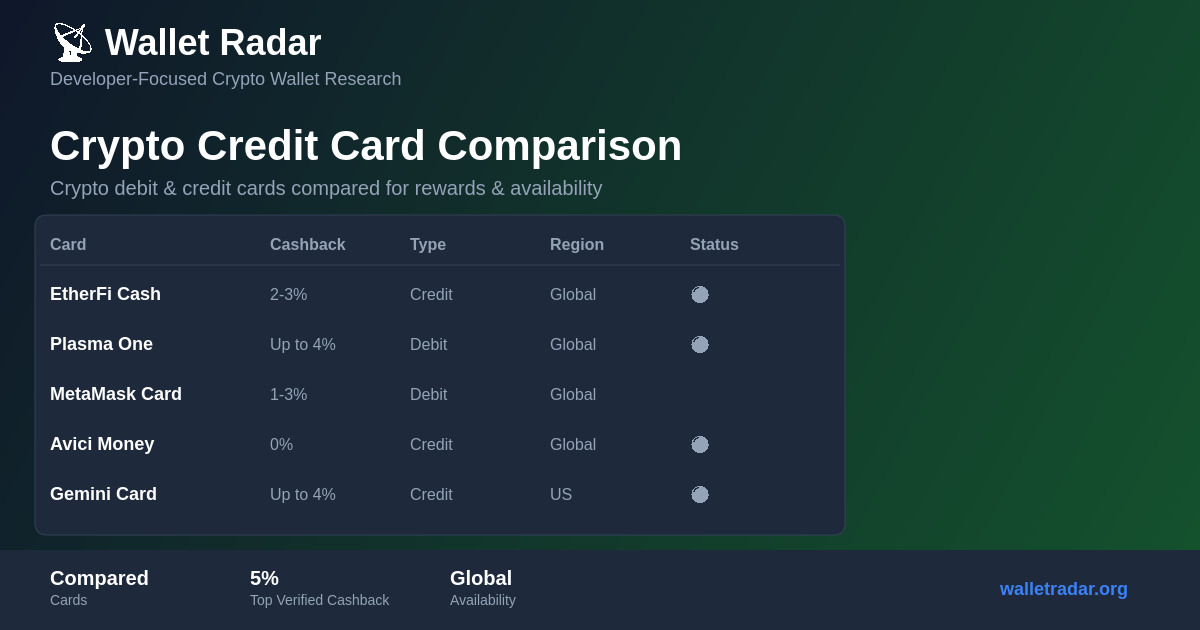
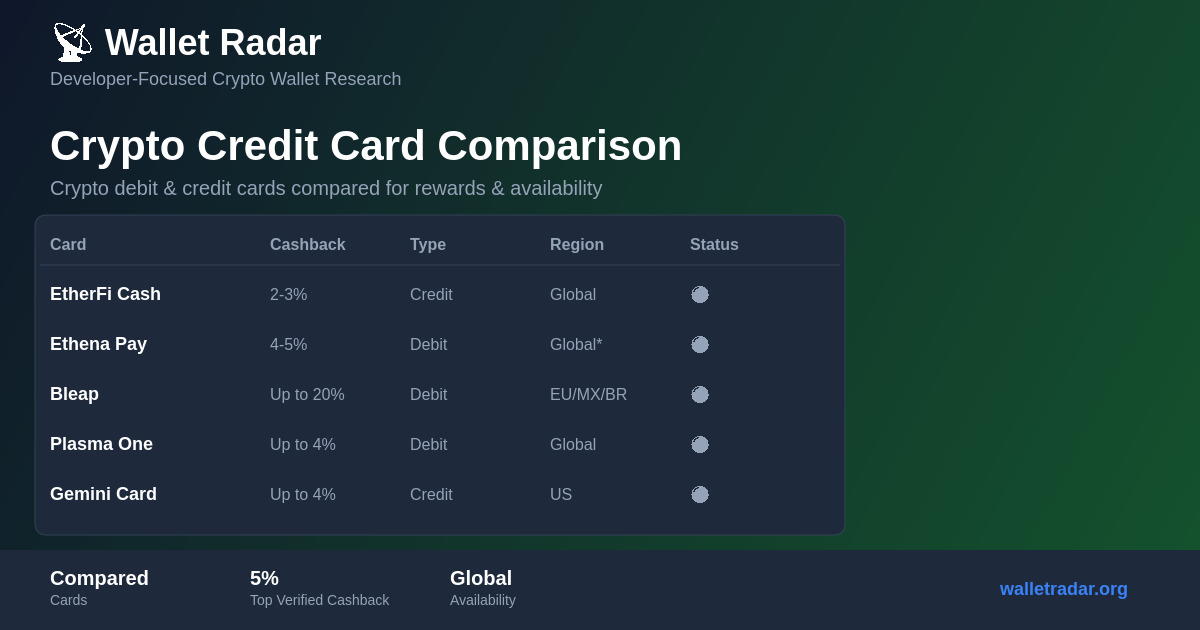
data(cards): re-check issuer pages 2026-10-15, mark wind-downs, add Bleap, Tangem Pay, Phantom Cash
Re-fetched issuer pages. Gnosis Pay consumer card winding down, Ready discontinued,
Solflare still paused (issuer Kulipa wound down), Cypher marked discontinued.
Updated Kraken (Krak US launch), OKX FX, Wirex One, Nummus fees, region asterisks.
Scores regenerated with sync_table_scores.js; OG card image regenerated.

diff --git a/frontend/scripts/generate-og-images.js b/frontend/scripts/generate-og-images.js
@@ -62,11 +62,11 @@ const WALLET_DATA = {
   ],
   cards: [
     // Data from CRYPTO_CARDS.md - Top 5 by score
-    // Last verified: October 2026
+    // Last verified: October 15, 2026
     { name: 'EtherFi Cash', cashback: '2-3%', type: 'Credit', region: 'Global', status: '🟢' },
+    { name: 'Ethena Pay', cashback: '4-5%', type: 'Debit', region: 'Global*', status: '🟢' },
+    { name: 'Bleap', cashback: 'Up to 20%', type: 'Debit', region: 'EU/MX/BR', status: '🟢' },
     { name: 'Plasma One', cashback: 'Up to 4%', type: 'Debit', region: 'Global', status: '🟢' },
-    { name: 'MetaMask Card', cashback: '1-3%', type: 'Debit', region: 'Global', status: '🟡' },
-    { name: 'Avici Money', cashback: '0%', type: 'Credit', region: 'Global', status: '🟢' },
     { name: 'Gemini Card', cashback: 'Up to 4%', type: 'Credit', region: 'US', status: '🟢' },
   ],
   ramps: [
@@ -671,7 +671,7 @@ function generateCryptoCardsDetailsImage() {
 
   const regions = [
     '• US: Gemini Card (up to 4%), Coinbase Card, Fold Card',
-    '• EU/UK: Gnosis Pay, Plasma One (up to 4%)',
+    '• EU/UK: Kraken Card (up to 2%), Plasma One (up to 4%)',
     '• Global: EtherFi Cash (2-3%), Plasma One (up to 4%)',
   ];
 

diff --git a/CRYPTO_CARDS_DETAILS.md b/CRYPTO_CARDS_DETAILS.md
@@ -5,19 +5,19 @@
 > **Source of truth note:** Current `Score` values are generated from the visible columns in [CRYPTO_CARDS.md](./CRYPTO_CARDS.md) via `scripts/sync_table_scores.js` (`2026-04-visible-columns-v3`). If a long-form section below mentions older rankings or manual bonuses, trust the main comparison table.
 
 <!-- GENERATED_CARDS_SNAPSHOT_START -->
-> **Current generated snapshot:** EtherFi Cash (92, Self-custody DeFi, 🟢), Ethena Pay (84, Non-US AVAX-cashback spend card (47 listed jurisdictions; EU coming soon), 🟢), Plasma One (81, USDT spend card, 🟢), and MetaMask Card (77, Self-custodial spending (US/UK signups paused), 🟢). Regenerated from [CRYPTO_CARDS.md](./CRYPTO_CARDS.md) by `scripts/sync_table_scores.js` using methodology `2026-04-visible-columns-v3`.
+> **Current generated snapshot:** EtherFi Cash (92, Self-custody DeFi, 🟢), Ethena Pay (84, Non-US AVAX-cashback spend card (47 listed jurisdictions; EU coming soon), 🟢), Bleap (83, MPC self-custodial wallet, Mastercard (custody labelled CeFi: issuing bank and card funding path not stated), 🟢), and Plasma One (81, USDT spend card, 🟢). Regenerated from [CRYPTO_CARDS.md](./CRYPTO_CARDS.md) by `scripts/sync_table_scores.js` using methodology `2026-04-visible-columns-v3`.
 
 ### Current Top Rows (generated)
 | Rank | Card | Score | Best For | Rec |
 | ---- | ---- | ----- | -------- | --- |
 | 1 | **EtherFi Cash** | 92 | Self-custody DeFi | 🟢 |
 | 2 | **Ethena Pay** | 84 | Non-US AVAX-cashback spend card (47 listed jurisdictions; EU coming soon) | 🟢 |
-| 3 | **Plasma One** | 81 | USDT spend card | 🟢 |
-| 4 | **MetaMask Card** | 77 | Self-custodial spending (US/UK signups paused) | 🟢 |
-| 5 | **Avici Money** | 76 | Collateral-backed | 🟢 |
+| 3 | **Bleap** | 83 | MPC self-custodial wallet, Mastercard (custody labelled CeFi: issuing bank and card funding path not stated) | 🟢 |
+| 4 | **Plasma One** | 81 | USDT spend card | 🟢 |
+| 5 | **Gemini Card** | 79 | Credit building | 🟢 |
 <!-- GENERATED_CARDS_SNAPSHOT_END -->
 
-**Last Updated:** October 10, 2026 (Oct 2026 issuer-source verification: see [Verification Log](#verification-log-october-2026). Custody: KAST, 1inch, Jupiter, CryptoSpend/Wayex, CoinJar, Spendly, Bitget Wallet Card, and Nummus Wallet Card are CeFi/card-platform; OKX Card is Exch because OKX Pay holds the balance.)
+**Last Updated:** October 15, 2026 (re-check of issuer pages on 2026-10-15, see [Recheck log](#recheck-2026-10-15); earlier Oct 2026 issuer-source verification: see [Verification Log](#verification-log-october-2026). Custody: KAST, 1inch, Jupiter, CryptoSpend/Wayex, CoinJar, Spendly, Bitget Wallet Card, and Nummus Wallet Card are CeFi/card-platform; OKX Card is Exch because OKX Pay holds the balance.)
 
 ---
 
@@ -379,7 +379,7 @@ The Binance Card is a debit card linked to your Binance account, offering BNB re
 **Website:** [wirexapp.com/card](https://wirexapp.com/card)
 
 **Overview:**
-The Wirex Card is a multi-crypto debit card with Cryptoback™ rewards program, supporting multiple cryptocurrencies.
+The Wirex Card is a multi-crypto debit card. As of 2026-10-15 the issuer's page (wirex.one) advertises Wirex One: "up to 8% cashback in USD on every purchase", "Zero-fee FX and ATM worldwide" and availability in "130+ countries". Secondary reports (SpendNode, June 2026) say the older WXT rewards and paid subscription tiers were replaced by a WPAY-based membership; wirex.one did not state this, so the annual/monthly fee is shown as TBD.
 
 **Business Support:** ✅ Yes (Wirex Business accounts available)
 
@@ -390,13 +390,13 @@ The Wirex Card is a multi-crypto debit card with Cryptoback™ rewards program, 
 - Debit card
 
 **Rewards Structure:**
-- Up to 8% Cryptoback™ rewards
-- Rewards paid in WXT token
+- Up to 8% cashback, paid in USD (wirex.one, 2026-10-15). Older "Cryptoback" in WXT: superseded per secondary reports.
 
 **Fees:**
-- Annual Fee: $0
-- Foreign Transaction Fee: 0%
-- Conversion fees may apply
+- Annual / monthly fee: TBD (older table said €0-€29.99/mo; not stated on wirex.one)
+- Foreign Transaction Fee: 0% ("Zero-fee FX", wirex.one)
+- ATM: "fee-free ATM withdrawals worldwide" (wirex.one; limits not stated)
+- Cardano Card (issued by Wirex): ends 2026-10-31 as Wirex drops custody, per Altcoin Buzz 2026-10-13 quoting the card's official X account (secondary; X post not fetched)
 
 **Requirements:**
 - Wirex account
@@ -960,7 +960,7 @@ Tria Card is a self-custodial Visa credit card that enables spending from 1,000+
 
 **Website:** [solflare.com/card](https://solflare.com/card)
 
-**Status:** ✅ Active (UK/EEA launch 2024, partnership with Mastercard)
+**Status:** ⚠ Paused. solflare.com/crypto-card (2026-10-15): "Solflare Cards are paused today while we move to a new issuing partner", cards "expected to return in August" (not met). SpendNode (secondary, 2026-07-29): paused 2026-07-28 after issuer Kulipa wound down. Funds stay in the self-custodial wallet.
 
 **Overview:**
 Solflare Card is the first self-custody crypto debit card on Solana, enabling instant USDC spending worldwide without top-ups, custodians, or hidden fees. Developed in partnership with Mastercard and Bridge.
@@ -1473,6 +1473,64 @@ Kontigo was a USDC-focused neobank offering stablecoin cards with Bitcoin cashba
 
 ---
 
+### Bleap
+
+**Website:** [bleap.finance](https://bleap.finance) (fetched 2026-10-15)
+
+**Status:** ✅ Live in Europe, Mexico and Brazil ("more countries planned").
+
+**Overview:**
+Mastercard debit card on an MPC wallet. Issuer entity: Bleap SIA (Latvia), MiCA CASP licence No. 27-55/2026/14 from Latvijas Banka; parent Bleap Ltd (UK). The page does not name the card-issuing bank.
+
+**Rewards (USDC):** 20% on streaming, gaming and AI subscriptions; 3% on rides and food delivery; 2% at restaurants and supermarkets; 1% on everything else.
+
+**Fees:** card issuance free; no monthly or annual fee; no markup on crypto-to-fiat conversion; no FX fee on non-EUR payments; ATM free up to EUR 400 per month.
+
+**Custody Model:** Page says wallets are self-custodial MPC ("No single party, including Bleap, ever holds your complete key"). The table labels the spend path 📋 CeFi because the page does not say funds stay user-controlled until authorization, and the issuing bank is not named.
+
+**Unverified:** spending limits, business support, card-issuing bank.
+
+---
+
+### Tangem Pay
+
+**Website:** [tangem.com/en/tangem-pay](https://tangem.com/en/tangem-pay/) (fetched 2026-10-15)
+
+**Status:** ✅ Basic and Plus available; Prestige on waitlist; welcome bonus and boosted rates "coming soon".
+
+**Overview:** Visa card issued by Rain (Visa Principal Member). Basic is Visa Platinum, Plus is Signature, Prestige is Infinite.
+
+**Rewards:** Basic 1%, Plus 2%, Prestige 4%; monthly caps $100 / $300 / $1,000. Basic is free; Plus is $29.99/month (waived at $4,500 monthly spend or $65,000 in Yield Mode); Prestige is $999/year (coming soon). ATM fee 4% / 2% / 1%. Daily spend limits $10,000 / $50,000 / $100,000. Bank top-up Basic: $1 ACH or $10 FedWire.
+
+**Custody Model:** Main assets stay in the non-custodial Tangem Wallet, but only the balance loaded onto the card can be spent, so the table labels the spend path 📋 CeFi.
+
+**Unverified:** FX fee, countries where cards can be opened, KYC wording.
+
+---
+
+### Phantom Cash Card
+
+**Website:** [phantom.com/cash](https://phantom.com/cash) (fetched 2026-10-15)
+
+**Status:** ⚠ Early rollout. The page says the card is "launching first in the U.S., except in New York". SpendNode (secondary) dates the US launch 2026-03-31.
+
+**Overview:** Visa card issued by Lead Bank; Bridge Ventures LLC is program manager; Phantom is platform provider. Spends the CASH stablecoin balance. Identity verification is required for the card (handled by Stripe).
+
+**Rewards / fees:** no cashback stated. "Fees may apply"; amounts, FX and annual fee not listed (TBD).
+
+**Custody Model:** 📋 CeFi (prepaid card balance held with issuer and program manager).
+
+---
+
+### Kraken Card (Krak)
+
+**Website:** [kraken.com/features/crypto-card](https://www.kraken.com/features/crypto-card); US launch post [blog.kraken.com/product/krak/us-launch](https://blog.kraken.com/product/krak/us-launch) (fetched 2026-10-15)
+
+- **UK/EEA:** virtual Mastercard debit card issued by Monavate; up to 2% back in BTC or EUR (0.5% from EUR 200, 1% from EUR 1,000, 1.5% from EUR 10,000, 2% from EUR 50,000 average balance); "no transaction, FX or ATM withdrawal fees" (a variable spread applies when spending across assets).
+- **US:** Visa debit card issued by Lead Bank (Stripe technology), launched 2026-08-18; up to 2% in USD or BTC; "No hidden fees, monthly fees, or annual fees"; FX fee not stated. Support page (support.krak.app/articles/us-krak-card-cashback-overview) lists 0.5% / 1% / 1.5% / 2% at USD 200 / 1,000 / 10,000 / 50,000, but the US cashback terms (krak.app/legal/us-card-cashback-terms) list 1% / 1.5% / 1.75% / 2% at USD 1,000 / 10,000 / 75,000 / 150,000 and say tiers may change. The two Kraken pages conflict; only "up to 2%" is consistent.
+
+---
+
 ### Reap
 
 **Website:** [reap.global](https://reap.global)
@@ -1677,9 +1735,10 @@ Headline maximums; many require staking or tiers, and several are unverified (se
 - Binance Card (**January 2026 Update:** Now Brazil-only, not global)
 
 ### Global (Multi-Region)
-- **Gnosis Pay** (**January 2026 Update:** Now global - EEA, UK, Brazil, Argentina, Mexico, Colombia, Philippines, Thailand, Japan, Singapore)
+- **Gnosis Pay** (January 2026: EEA, UK, Brazil, Argentina, Mexico, Colombia, Philippines, Thailand, Japan, Singapore; **October 2026: consumer card being wound down**, see Recheck log)
 - Crypto.com Visa Card
 - Wirex Card
+- Bleap (EU, Mexico, Brazil only; listed for completeness)
 - EtherFi Cash (100M+ merchants worldwide)
 - Hi Card
 - KuCard (excludes US)
@@ -1880,6 +1939,32 @@ Retrieved 2026-10-10 from issuer pages unless marked *(secondary)*. Page text wa
 | Cypher Card | New row (inactive) | n/a | ❌, ~~strikethrough~~ | Primary: [cypherhq.io wind-down page](https://www.cypherhq.io/wind-down-support/what-is-happening-to-cypher) ("Cypher has been acquired by Nium"; cards cancelled 2026-08-08 00:00 UTC; app/dApp/business platform offline 2026-09-06) and [Nium announcement, 2026-07-08](https://www.nium.com/newsroom/nium-acquires-cypher). Fees and cashback TBD |
 | Coinbase Card (One Card, Amex) | No change | n/a | n/a | coinbase.com/creditcard, help.coinbase.com and the launch blog returned 403; only search snippets of coinbase.com pages (US only, Coinbase One members, issuer First Electronic Bank, Amex network) seen. Not a primary-page confirmation, so no row added or edited |
 
+### Recheck (2026-10-15)
+
+Second pass on 2026-10-15 using WebFetch/WebSearch and `scripts/verify-crypto-cards.js` (Playwright). Many issuer pages state no numbers or blocked the fetch; those fields are listed under **Unverified (2026-10-15)**.
+
+| Card | Field | Old | New | Source |
+|------|-------|-----|-----|--------|
+| Gnosis Pay | Status / Best For | ✅, DeFi-native | ⚠, consumer card winding down | Issuer blog [gnosispay.com/blog/gnosis-pay-the-next-era](https://gnosispay.com/blog/gnosis-pay-the-next-era): "Over the coming months the Gnosis Pay card will be wound up in favour of partner cards" and the web app will close. The date 2026-12-20 23:59 UTC (card and web app stop; GNO cashback ended 2026-09-30) is from [Crypto Briefing](https://cryptobriefing.com/gnosis-pay-shutdown-consumer-cards-b2b/) and The Defiant (secondary; help.gnosispay.com FAQ returned 404 to fetch) |
+| Kraken | Link / Best For | kraken.com/kraken-card (404), "Cloudflare-protected" | kraken.com/features/crypto-card, network and issuer by region | See Kraken Card (Krak) section; FX "no FX fees" confirmed for UK/EEA only |
+| OKX Card | FX | TBD | 0% | [my.okx.com/pay](https://my.okx.com/pay): "We charge no transaction fees or FX fees. Worldwide." (0.1% market spread when converting to fiat) |
+| Wirex Card | Annual / Rewards | €0-€29.99/mo, WXT | TBD, USD cash | [wirex.one](https://wirex.one): "up to 8% cashback in USD", zero-fee FX and ATM; old subscription not stated |
+| Nummus Wallet Card | Annual | TBD | $0-$14.99/mo ($300-$750 one-time setup tiers) | [nummuswallet.com](https://nummuswallet.com/): Free (physical card $30), Plus $14.99/mo or $149/yr, Pro $300 one-time, Premium $750 one-time |
+| Tuyo | Region | Global* | Global | [tuyo.com/card](https://tuyo.com/card) links a US cardholder agreement; the 10-Oct text also listed the US among 41 countries |
+| Fuse Wallet Card | Region | Global* | Global | [fusewallet.com](https://fusewallet.com): issued by Lead Bank under Visa U.S.A.; only NY and AK excluded in the US |
+| Jupiter Card | Region | Global* | Global | [docs.jup.ag](https://docs.jup.ag/user-docs/global/spend/jupiter-card): lists many countries and 31 US states |
+| Gemini Card | Rewards | BTC, ETH | Multi (BTC, 50+ cryptos) | [gemini.com/credit-card](https://www.gemini.com/credit-card): "bitcoin or 50+ cryptos"; 4% capped at $300/mo; Mastercard World Elite, WebBank |
+| Bitget Wallet Card | Rewards | Campaign | Multi (BTC, gold, stocks, USDC) | [web3.bitget.com/en/card](https://web3.bitget.com/en/card): 2% base assetback, 3% upgrade; user picks one reward asset |
+| Solflare Card | Best For | Cards paused (new issuer) | paused since 2026-07-28, Kulipa wound down; return "expected August" not met | [solflare.com/crypto-card](https://solflare.com/crypto-card) (still paused 2026-10-15); date and issuer from SpendNode (secondary) |
+| Ready Card | Best For | reported shutdown, unconfirmed | Discontinued (late July 2026, issuer Kulipa wound down) | [The Defiant](https://thedefiant.io/news/cefi/ready-shuts-card-program-after-issuer-winds-down) headline and search snippet (article body not retrievable, secondary); ready.co/card shows no notice |
+| Cypher Card | Best For | deactivated by 2026-09-06 | cards cancelled 2026-08-08, service ended 2026-09-06 | [cypherhq.io wind-down page](https://www.cypherhq.io/wind-down-support/what-is-happening-to-cypher) |
+| Swissborg Card | Best For | Card page 404 | card advertised on swissborg.com | swissborg.com: "Pay worldwide wherever Mastercard is accepted", BORG cashback; fee schedule not on page |
+| Bleap, Tangem Pay, Phantom Cash Card | New rows | n/a | see sections above | bleap.finance, tangem.com/en/tangem-pay, phantom.com/cash |
+
+**Checked and unchanged (primary page matched the table):** EtherFi network Visa (gitbook), Ethena Pay (4-5% AVAX, ~1% FX, $0 fees, ATM $1 + 0.65%), Plasma One (2/3/4% tiers, Visa/Rain), MetaMask (1% virtual, 3% on first $10,000 Metal, $199/yr, US/UK signups closed), Kast (1.5/2/3%, $0/$1,000/$10,000 per year, Visa), Nexo (0.5-2%, FX 0.2-2.5%, issuer DiPocket), Bitpanda (1% crypto spend, FX 0%), Shakepay (up to 1.5%, no annual fee, Visa), CoinJar (1% points, 2.99% FX, Mastercard/EML), Meow (1.5% base rate, no annual fee), Slash (Free 1.5% / Pro 2%, 1% FX min $0.40, Visa/Column), ThorWallet (0.5% Premium, $124 one-off, 1.5% FX, Mastercard), ToonPay (Starter 1%, 2% FX, $12 KYC, $80 card), Plutus (FX 2.5%, ATM 2.5%, card EUR/GBP 9.99), KuCard terms (EEA, Visa, Wallester), Binance Brazil (Pomelo, Mastercard, no physical issuance fee), Reap (Visa principal, live HK and Mexico), RedotPay (issuance $10 virtual / $100 physical), Fold (Visa, Sutton Bank), Gnosis Pay network (Visa Europe, Monavate).
+
+**Unverified (2026-10-15):** EtherFi cashback/fees (ether.fi/cash HTTP 429; Playwright got a Vercel security checkpoint; gitbook page gives no rates). Coinbase (HTTP 403; the Coinbase One Card, Amex, is described only by search snippets), Revolut (403), Uphold (403), Bybit (fetch timeout; a January 2026 press release says Bybit EU added BTC cashback at 2-10%, which conflicts with the "Non-EEA" row, secondary), 1inch cashback/regions (page states neither), Wayex/CryptoSpend 1% cashback and BTC/ETH rewards (page states neither), Reap 0% cashback and 2% FX (page lists no amounts), Hi Card (hi.com mentions no card), BitPay (page has no status; reports conflict), Amp Pay (TLS certificate expired), Payy and Tria card terms, Kontigo, Spendly, Bitget activation fee and FX range, Plutus annual fee and region, Kraken US FX fee and US cashback tiers (two Kraken pages disagree), Binance CIS relaunch (Mastercard/Immersve, February 2026, secondary only), Crypto.com US Visa Signature credit card (1.5-6% CRO per Crypto.com event page via search snippet, not fetched), Fold Bitcoin Credit Card ("up to 5% back in bitcoin" on foldapp.com, no terms), Moonwell Card (shut 2026-08 with Cypher, secondary).
+
 ### Custody
 
 | Card | Class | Keys / funds | Issuer / program manager |
@@ -1897,7 +1982,7 @@ Retrieved 2026-10-10 from issuer pages unless marked *(secondary)*. Page text wa
 | Cypher Card | TBD (not verified from a primary page) | Discontinued; own notice: Service End Date 2026-09-06, card deactivated then | Nium (acquirer) |
 | 1inch, Jupiter, Wayex, Nexo, Plutus, Shakepay, Reap, CoinJar | CeFi | Prepaid/partner-held balances | Monavate; Rain+DCS; Lead Bank/Bridge; Lead Bank; DiPocket; Modulr; Peoples Trust; Reap (Visa principal); EML |
 
-**Not added:** Bleap (custody is an issuer claim only; funding path, issuer and terms not retrieved). **Added 2026-10-10 from primary pages:** Bitpanda Card and Cypher Card (inactive). **Fetch results:** tangem.com/en/pay 404, tangem.com/en/tangem-pay/ fetched; exa.fi redirects to a domain-sale page; ledger.com/ledger-cl-card 404 (shop.ledger.com/pages/cl-card-crypto-card fetched); safepal.com/en/crypto-card 404; Coinbase pages 403; holyheld.com/card 404.
+**Not added on 2026-10-10:** Bleap (added 2026-10-15 from bleap.finance with custody labelled CeFi). **Added 2026-10-10 from primary pages:** Bitpanda Card and Cypher Card (inactive). **Fetch results:** tangem.com/en/pay 404, tangem.com/en/tangem-pay/ fetched; exa.fi redirects to a domain-sale page; ledger.com/ledger-cl-card 404 (shop.ledger.com/pages/cl-card-crypto-card fetched); safepal.com/en/crypto-card 404; Coinbase pages 403; holyheld.com/card 404.
 
 **Cypher:** primary pages confirm the acquisition by Nium and the shutdown. Cypher's own [notice of termination](https://www.cypherhq.io/notice-of-termination) (Notice Date 2026-07-08) states a Service End Date of 2026-09-06 on which "the Cypher Card will be deactivated"; the [wind-down page](https://www.cypherhq.io/wind-down-support/what-is-happening-to-cypher) gives 2026-08-08 for card cancellation. Both are Cypher primary sources and differ; the row is inactive either way. Custody and region are not verified from a primary page and are TBD.
 
@@ -1908,7 +1993,7 @@ Cashback rates for EtherFi (2-3%) and its ATM/annual fee; Plasma membership pric
 COCA Visa (coca.xyz; "non-custodial", up to 8%, issuer Wirex *secondary*), Wirex One / SecondFi self-custodial relaunch, Mercuryo x Mastercard, Sana onchain (Rain), Western Union Stablecard (custody unclear). Ethena Pay was added and updated to live beta.
 
 Not added after primary-page check (2026-10-10), reason:
-- Tangem Pay ([tangem.com/en/tangem-pay/](https://tangem.com/en/tangem-pay/)): live (Basic available), Rain issuer, 1/2/4% cashback, Plus $29.99/mo; custody described as main assets in non-custodial wallet with a separate loaded card balance, and countries that can open cards are not listed; FX fee in a tariffs PDF not read. Region unconfirmed.
+- Tangem Pay (added as a row on 2026-10-15 with region marked unconfirmed; [tangem.com/en/tangem-pay/](https://tangem.com/en/tangem-pay/)): live (Basic available), Rain issuer, 1/2/4% cashback, Plus $29.99/mo; custody described as main assets in non-custodial wallet with a separate loaded card balance, and countries that can open cards are not listed; FX fee in a tariffs PDF not read. Region unconfirmed.
 - Ledger CL Card ([shop.ledger.com](https://shop.ledger.com/pages/cl-card-crypto-card), [withcl.com/legal](https://www.withcl.com/legal)): live in EEA, UK, US, CA, CH, CO, MX, BR; 1% BTC/USDC/USDT; fees not on retrieved pages; custody conflicting (shop page: account operated by Monavate; withcl.com: "Spend crypto from self-custody"). Custody unresolved.
 - Oobit ([oobit.com](https://oobit.com)): live-looking, "up to 10%", card free; custody, region and FX not stated (US via Bakkt).
 - SafePal Card ([safepal.com/en/bank](https://www.safepal.com/en/bank)): Fiat24-based Mastercard; custody, regions, cashback and card fees not stated.
@@ -1919,4 +2004,4 @@ Not added after primary-page check (2026-10-10), reason:
 
 ---
 
-*Last updated: October 2026 - Comprehensive score recalculation with verified data. Key corrections: Ready Card 3% (not 10%), Binance 3% (not 8%), Crypto.com base 0%. Clarified card spend-path custody scoring.*
+*Last updated: October 15, 2026 - Comprehensive score recalculation with verified data. Key corrections: Ready Card 3% (not 10%), Binance 3% (not 8%), Crypto.com base 0%. Clarified card spend-path custody scoring.*

diff --git a/CRYPTO_CARDS.md b/CRYPTO_CARDS.md
@@ -6,52 +6,55 @@
 | ---- | ----- | ---- | ------- | --- | ------ | --------- | ---------- | ------ | ------- | ------ | -------- | --- |
 | [**EtherFi Cash**](https://ether.fi/cash) | 92 | Credit | 🔐 Self | ✅ | 🌍 Global | 2-3% | $0 | 1% | Multi | ✅ | Self-custody DeFi | 🟢 |
 | [**Ethena Pay**](https://pay.ethena.fi) | 84 | Debit | 🔐 Self | ❌ | 🌍 Global* | 4-5% | $0 | ~1% | AVAX | ✅ | Non-US AVAX-cashback spend card (47 listed jurisdictions; EU coming soon) | 🟢 |
+| [**Bleap**](https://bleap.finance) | 83 | Debit | 📋 CeFi | ⚠ | 🇪🇺 EU, MX, BR | Up to 20% (1% base) | $0 | 0% | USDC | ✅ | MPC self-custodial wallet, Mastercard (custody labelled CeFi: issuing bank and card funding path not stated) | 🟢 |
 | [**Plasma One**](https://www.plasma.org/personal) | 81 | Debit | 🔐 Self | ❌ | 🌍 Global* | Up to 4% | $0 (Lite) | 0-1% | XPL | ✅ | USDT spend card | 🟢 |
+| [**Gemini Card**](https://www.gemini.com/credit-card) | 79 | Credit | 🏦 Exch | ❌ | 🇺🇸 US | Up to 4% | $0 | 0% | Multi (BTC, 50+ cryptos) | ✅ | Credit building | 🟢 |
+| [**OKX Card**](https://www.okx.com) | 78 | Debit | 🏦 Exch | ⚠ | 🇪🇺 EU | 2-10% | $0 | 0% | Stables | 🔄 | OKX Pay EU users | 🟡 |
 | [**MetaMask Card**](https://metamask.io/card) (@MetaMask) | 77 | Debit | 🔐 Self | ❌ | 🌍 Global* | 1-3% | $0-$199/yr | 0% | Multi | ⚠ | Self-custodial spending (US/UK signups paused) | 🟢 |
 | [**Avici Money**](https://avici.money) (@AviciMoney) | 76 | Credit | 🔐 Self | ⚠ | 🌍 Global | 0% | $0 | 1-3% | Multi | ✅ | Collateral-backed | 🟢 |
 | [**CryptoSpend**](https://www.wayex.com/en-US/) | 76 | Debit | 📋 CeFi | ❌ | 🌍 Global* | 1% | $0 | 0% | BTC, ETH | ✅ | Australia (Wayex) | 🟢 |
-| [**Gemini Card**](https://www.gemini.com/credit-card) | 76 | Credit | 🏦 Exch | ❌ | 🇺🇸 US | Up to 4% | $0 | 0% | BTC, ETH | ✅ | Credit building | 🟢 |
-| [**Kraken Card**](https://www.kraken.com/kraken-card) | 74 | Debit | 🏦 Exch | ⚠ | 🇺🇸🇪🇺 US/EU | 0.5-2% | $0 | 0-1% | Multi | ✅ | Cloudflare-protected | 🟢 |
+| [**Kraken Card**](https://www.kraken.com/features/crypto-card) | 74 | Debit | 🏦 Exch | ⚠ | 🇺🇸🇪🇺 US/EU | 0.5-2% | $0 | 0-1% | Multi | ✅ | Krak/Kraken card: UK/EEA Mastercard (Monavate); US Visa (Lead Bank), launched 2026-08-18 | 🟢 |
+| [**Bitget Wallet Card**](https://web3.bitget.com/en/card) | 72 | Debit | 📋 CeFi | ❌ | 🌍 Global* | 2-3% | $0 ($10 activation) | 0-1.7% | Multi (BTC, gold, stocks, USDC) | ⚠ | Bitget Wallet users | 🟢 |
 | [**Payy**](https://payy.network) (@payy_link) | 72 | Debit | 🔐 Self | ❌ | 🌍 Global | 0% | $0 | 0% | USDC | ⚠ | Privacy-focused | 🟢 |
 | [**ToonPay Card**](https://www.toonpay.io/) (@ToonPayOfficial) | 72 | Debit | 📋 CeFi | ❌ | 🌍 Global | 1-15%* | $0 annual ($12 KYC, $80 card) | 2% + 2% processing | $TOON | ✅ | High-cashback community spend | 🟢 |
-| [**Wirex Card**](https://wirexapp.com) | 72 | Debit | 📋 CeFi | ⚠ | 🌍 Global | Up to 8% | €0-€29.99/mo | 0% | WXT | ⚠ | Multi-crypto | 🟢 |
 | [**Crypto.com Visa**](https://crypto.com/us/cards) | 71 | Debit | 🏦 Exch | ✅ | 🌍 Global | 0-4.5% | $0 | 0-3% | CRO | ✅ | CRO stakers ⚠ | 🟢 |
 | [**Kast**](https://kast.xyz) (@kastxyz) | 71 | Debit | 📋 CeFi | ✅ | 🌍 Global | 1.5-3% | $0-$10,000/yr | Up to 2-3% | Kast Points | ✅ | Stablecoin banking (custodial terms) | 🟢 |
-| [**OKX Card**](https://www.okx.com) | 71 | Debit | 🏦 Exch | ⚠ | 🇪🇺 EU | 2-10% | $0 | TBD | Stables | 🔄 | OKX Pay EU users | 🟡 |
 | [**Bitpanda Card**](https://www.bitpanda.com/en/card) | 70 | Debit | 🏦 Exch | ❌ | 🇪🇺 Euro area | 1% | $0 | 0% | Crypto | ✅ | Bitpanda users (euro-area residents) | 🟢 |
-| [**Fuse Wallet Card**](https://fusewallet.com) (@fusewallet) | 70 | Prepaid | 🔐 Self | ❌ | 🌍 Global* | 0% | $0 | 0% | USDC | ⚠ | Solana stablecoins | 🟢 |
-| [**Gnosis Pay**](https://gnosispay.com) | 70 | Debit | 🔐 Self | ⚠ | 🌍 Global* | TBD | €0 | 0% | GNO/SAFE | ✅ | DeFi-native | 🟢 |
+| [**Fuse Wallet Card**](https://fusewallet.com) (@fusewallet) | 70 | Prepaid | 🔐 Self | ❌ | 🌍 Global | 0% | $0 | 0% | USDC | ⚠ | Solana stablecoins | 🟢 |
 | [**1inch Card**](https://1inch.com/card) | 69 | Debit | 📋 CeFi | ❌ | 🇪🇺 EU/UK | Up to 2% | $0 | 0% | 1INCH | ✅ | DeFi users | 🟢 |
-| [**Tuyo**](https://tuyo.com/card) (@itstuyo) | 69 | Prepaid | 🔐 Self | ❌ | 🌍 Global* | 0% | $0 | ~1% | TUYO | ✅ | USDC on Base | 🟢 |
+| [**Tuyo**](https://tuyo.com/card) (@itstuyo) | 69 | Prepaid | 🔐 Self | ❌ | 🌍 Global | 0% | $0 | ~1% | TUYO | ✅ | USDC on Base | 🟢 |
 | [**Meow Card**](https://www.meow.com/cards) (@meow) | 68 | Business | 📋 CeFi | ✅ | 🌍 Global | Up to 1.5% | $0 | TBD (avg ~2% savings) | USD cash | ✅ | Global startup finance ops | 🟢 |
 | [**Plutus Card**](https://plutus.it) | 68 | Debit | 📋 CeFi | ❌ | 🇬🇧 UK | 3-9% | £0 | 2.5% | PLU | ✅ | EU/UK perks | 🟢 |
 | [**Revolut Crypto**](https://www.revolut.com/crypto/crypto-card/) | 68 | Debit | 📋 CeFi | ⚠ | 🌍 Global | TBD | $0-$17/mo | 0-2% | Multi | ✅ | Fiat+Crypto | 🟢 |
-| [**Jupiter Card**](https://jup.ag/rewards) | 67 | Debit | 📋 CeFi | ❌ | 🌍 Global* | 2% | $0 | 1-1.8% | USDC | ⚠ | Solana/Jupiter users | 🟡 |
+| [**Jupiter Card**](https://jup.ag/rewards) | 67 | Debit | 📋 CeFi | ❌ | 🌍 Global | 2% | $0 | 1-1.8% | USDC | ⚠ | Solana/Jupiter users | 🟡 |
 | [**Nexo Card**](https://nexo.com/card) | 67 | Credit | 📋 CeFi | ✅ | 🇪🇺 EU/UK | 0.5-2% | $0 | 0.2-2.5% | NEXO | ✅ | Crypto credit | 🟡 |
 | [**ThorWallet**](https://thorwallet.org) (@THORWalletORG) | 67 | Debit | 🔐 Self | ❌ | 🌍 Global | 0.5% | $0-$124 one-off | 1.5% | Multi | ✅ | Cross-chain DeFi | 🟡 |
-| [**Tria**](https://tria.so) (@useTria) | 67 | Prepaid | 🔐 Self | ❌ | 🌍 Global | Up to 6% | TBD | TBD | Stables | ⚠ | Token rewards | 🟡 |
-| [**Bitget Wallet Card**](https://web3.bitget.com/en/card) | 66 | Debit | 📋 CeFi | ❌ | 🌍 Global* | 2-3% | $0 ($10 activation) | 0-1.7% | Campaign | ⚠ | Bitget Wallet users | 🟡 |
+| [**Tria**](https://tria.so) (@useTria) | 67 | Prepaid | 🔐 Self | ❌ | 🌍 Global | Up to 6% | TBD | TBD | Stables | ⚠ | Token rewards | 🟢 |
+| [**Wirex Card**](https://wirex.one) | 67 | Debit | 📋 CeFi | ⚠ | 🌍 Global | Up to 8% | TBD | 0% | USD cash | ⚠ | Multi-crypto; relaunched as Wirex One (USD cashback); Cardano Card ends 2026-10-31 (secondary) | 🟢 |
+| [**Gnosis Pay**](https://gnosispay.com) | 66 | Debit | 🔐 Self | ⚠ | 🌍 Global* | TBD | €0 | 0% | GNO/SAFE | ⚠ | Consumer card winding down: card and web app end 2026-12-20 per press (Gnosis Pay blog 2026-09-03: wound up in favour of partner cards) | 🟡 |
 | [**Coinbase Card**](https://www.coinbase.com/card) | 64 | Debit | 🏦 Exch | ❌ | 🇺🇸 US | TBD | $0 | 0% | BTC, ETH | ✅ | Coinbase users | 🟡 |
 | [**Reap**](https://reap.global) | 64 | Business | 📋 CeFi | ✅ | HK/MX | 0% | $0 | 2% | Stables | ✅ | Business | 🟡 |
-| [**Bybit Card**](https://www.bybit.com/en/cards/) | 63 | Debit | 🏦 Exch | ✅ | 🌍 Non-EEA | TBD | $0 | TBD | Multi | ⚠ | $100 ATM free then 2% | 🔴 |
+| [**Bybit Card**](https://www.bybit.com/en/cards/) | 63 | Debit | 🏦 Exch | ✅ | 🌍 Non-EEA | TBD | $0 | TBD | Multi | ⚠ | $100 ATM free then 2% | 🟡 |
 | [**RedotPay**](https://redotpay.com) | 63 | Debit | 📋 CeFi | ✅ | 🌍 Global* | TBD | $0 ($10-$100 issuance) | 1.2% | USDT, USDC | ✅ | Multi-region (ex US/SG) | 🟡 |
 | [**Shakepay Card**](https://shakepay.com/card) | 63 | Prepaid | 📋 CeFi | ❌ | 🇨🇦 CA | 1-1.5% | $0 | 0-3% | BTC | ✅ | Canada | 🟡 |
 | [**Slash Platinum Card**](https://www.slash.com/products/corporate-cards) (@slashapp) | 63 | Business | 📋 CeFi | ✅ | 🇺🇸 US | 1.5-2% | $0-$25/mo | 1% (min $0.4) | USD cash | ✅ | US internet businesses | 🟡 |
 | [**Uphold Card**](https://uphold.com) | 63 | Debit | 📋 CeFi | ⚠ | 🇺🇸🇪🇺 US/EU | 1-4% | $0-$99.99/yr | TBD | XRP, BTC | ⚠ | US relaunch 2025-10 (secondary) | 🟡 |
-| [**Hi Card**](https://hi.com) | 62 | Debit | 📋 CeFi | ❌ | 🌍 Global | TBD | $0 | 0% | HI | ⚠ | High cashback | 🔴 |
+| [**Hi Card**](https://hi.com) | 62 | Debit | 📋 CeFi | ❌ | 🌍 Global | TBD | $0 | 0% | HI | ⚠ | High cashback | 🟡 |
 | [**KuCard**](https://www.kucoin.com/kucard) | 61 | Debit | 🏦 Exch | ❌ | 🇪🇺 EEA | Up to 1% | $0 (€9.99 issuance) | TBD | Multi | ✅ | KuCoin users | 🔴 |
-| [**Solflare Card**](https://solflare.com/card) (@solflare_wallet) | 61 | Debit | 🔐 Self | ❌ | 🇪🇺 EU/UK | 0% | $0 | 0% | None | ⚠ | Cards paused (new issuer) | 🔴 |
+| [**Solflare Card**](https://solflare.com/card) (@solflare_wallet) | 61 | Debit | 🔐 Self | ❌ | 🇪🇺 EU/UK | 0% | $0 | 0% | None | ⚠ | Cards paused since 2026-07-28 (issuer Kulipa wound down); issuer return "expected August" not met as of 2026-10-15 | 🔴 |
 | [**Binance Card**](https://www.binance.com/en/cards) | 60 | Debit | 🏦 Exch | ⚠ | 🇧🇷 Brazil | Up to 3% | $0 | 0-2% | BNB | ✅ | Binance users | 🔴 |
 | [**Fold Card**](https://foldapp.com) | 60 | Debit | 📋 CeFi | ❌ | 🇺🇸 US | TBD | $0 | 0-3% | BTC | ✅ | Bitcoin rewards | 🔴 |
 | [**BitPay Card**](https://bitpay.com/card) | 59 | Prepaid | 📋 CeFi | ⚠ | 🇺🇸 US | 1%* | $0 | 0% | None | ⚠ | US program reportedly ended (unconfirmed) | 🔴 |
 | [**CoinJar Card**](https://www.coinjar.com/au/card) | 58 | Debit | 📋 CeFi | ❌ | 🇦🇺 AU | 1% rewards pts | $0 | 2.99% | Points | ⚠ | 1% fee returned | 🔴 |
-| [**Swissborg Card**](https://swissborg.com) | 58 | Debit | 📋 CeFi | ❌ | 🇪🇺 EU | 1-2% | $0 | TBD | BORG | ⚠ | Card page 404 | 🔴 |
+| [**Swissborg Card**](https://swissborg.com) | 58 | Debit | 📋 CeFi | ❌ | 🇪🇺 EU | 1-2% | $0 | TBD | BORG | ⚠ | Card advertised on swissborg.com (Mastercard, BORG cashback); /card page 404 | 🔴 |
+| [**Tangem Pay**](https://tangem.com/en/tangem-pay/) | 58 | Debit | 📋 CeFi | ❌ | 🌍 Global | 1-4% | $0-$999/yr | TBD | TBD | ✅ | Tangem wallet users (Visa via Rain; spends a loaded card balance; Prestige waitlist; issuing countries not listed) | 🔴 |
 | [**Amp Pay Black Card**](https://ampay.com) (@GetAmpPay) | 56 | Debit | 🔐 Self | ❌ | 🌍 Global | TBD | TBD | TBD | USDC/SOL | ⚠ | Solana payments (status unverified) | 🔴 |
 | ~~[**Kontigo**](https://kontigo.com)~~ | 51 | Debit | 🔐 Self | ⚠ | 🌍 Global | 10% BTC | $0 | 0% | BTC | ❌ | ~~Crypto neobank~~ | 🔴 |
-| [**Nummus Wallet Card**](https://nummuswallet.com/) (@NummusWallet) | 43 | Debit | 📋 CeFi | ✅ | 🌍 Global | 0% | TBD | 2.5-4% top-up | None | ⚠ | Partner-issued banking/card rails | 🔴 |
-| ~~[**Ready Card**](https://www.ready.co/card)~~ | 41 | Debit | 🔐 Self | ❌ | 🇪🇺 EU/UK | 3% | $0 | 0% | Crypto | ❌ | ~~Self-custody EU/UK~~ (reported shutdown, 2026-07; unconfirmed by issuer) | 🔴 |
+| [**Nummus Wallet Card**](https://nummuswallet.com/) (@NummusWallet) | 41 | Debit | 📋 CeFi | ✅ | 🌍 Global | 0% | $0-$14.99/mo ($300-$750 one-time setup tiers) | 2.5-4% top-up | None | ⚠ | Partner-issued banking/card rails | 🔴 |
+| ~~[**Ready Card**](https://www.ready.co/card)~~ | 41 | Debit | 🔐 Self | ❌ | 🇪🇺 EU/UK | 3% | $0 | 0% | Crypto | ❌ | ~~Self-custody EU/UK~~ Discontinued (late July 2026, issuer Kulipa wound down; The Defiant, secondary; ready.co/card shows no notice) | 🔴 |
+| [**Phantom Cash Card**](https://phantom.com/cash) | 40 | Prepaid | 📋 CeFi | ❌ | 🇺🇸 US | 0% | TBD | TBD | CASH | ⚠ | Phantom users in US (not New York); Visa via Lead Bank/Bridge | 🔴 |
 | ~~[**Spendly**](https://www.usespendly.com)~~ (@SpendlyCC) | 29 | Prepaid | 📋 CeFi | ❌ | 🌍 Global | 0% | $0 | 0% | Multi | ❌ | ~~Privacy prepaid spending~~ (domain parked) | 🔴 |
-| ~~[**Cypher Card**](https://www.cypherhq.io/wind-down-support/what-is-happening-to-cypher)~~ | 1 | Debit | TBD | ❌ | TBD | TBD | TBD | TBD | TBD | ❌ | ~~Card~~ (acquired by Nium; own notice: deactivated by 2026-09-06) | 🔴 |
+| ~~[**Cypher Card**](https://www.cypherhq.io/wind-down-support/what-is-happening-to-cypher)~~ | 1 | Debit | TBD | ❌ | TBD | TBD | TBD | TBD | TBD | ❌ | ~~Card~~ Discontinued (acquired by Nium; cards cancelled 2026-08-08, service ended 2026-09-06; cypherhq.io) | 🔴 |
 
 > **Scoring note:** `Score` and `Rec` are generated from the visible columns above using `scripts/sync_table_scores.js` and methodology version `2026-04-visible-columns-v3`. The table no longer relies on hand-tuned score adjustments.
 
@@ -106,13 +109,20 @@
 | 🌍 | Global (200+ countries) |
 | **\*** | Not available in US |
 
-**🇺🇸 US-Available Cards:** Coinbase, Fold, Gemini, Uphold, Kraken, BitPay, Crypto.com, Wirex, Revolut, Hi Card, EtherFi, Reap (business), Slash Platinum, Meow Card
+**🇺🇸 US-Available Cards:** Coinbase, Fold, Gemini, Uphold, Kraken (Krak US card, 2026-08-18), BitPay, Crypto.com, Wirex, Revolut, Hi Card, EtherFi, Reap (business), Slash Platinum, Meow Card, Tuyo, Fuse Wallet Card, Jupiter Card (31 states), Phantom Cash Card (not New York)
 
 **Methodology Update (April 2026):**
 - Scores are generated directly from the table columns, not from manual bonus / penalty overrides.
 - Status, custody model, region coverage, rewards, annual fee, and FX fee now drive the score mechanically.
 - If you want to change a score, update the data columns and rerun `scripts/sync_table_scores.js --write`.
 - Custody labels classify the **card spend path**, not the provider's broader wallet marketing. If a product offers a non-custodial wallet but requires loading, converting, or transferring funds into a card/issuer/partner balance before spend, it belongs in **📋 CeFi** unless official card docs say funds remain user-controlled until authorization or purchase.
+
+**Recheck (October 15, 2026):** issuer pages re-fetched; full log with sources in [CRYPTO_CARDS_DETAILS.md](./CRYPTO_CARDS_DETAILS.md#recheck-2026-10-15).
+- **Gnosis Pay**: consumer card and web app are being wound down in favour of partner cards (issuer blog 2026-09-03); press gives 2026-12-20 as the end date. Status set to ⚠.
+- **Ready Card** and **Solflare Card**: issuer Kulipa wound down in late July 2026. Ready is marked Discontinued; Solflare cards are still paused on 2026-10-15 (return "expected in August" not met).
+- **Cypher Card**: marked Discontinued (cards cancelled 2026-08-08, service ended 2026-09-06).
+- **Wirex Card**: issuer page now advertises Wirex One with up to 8% cashback in USD; the old monthly fee range is no longer stated and is TBD. The Wirex-issued Cardano Card ends 2026-10-31 (secondary).
+- **Added**: Bleap, Tangem Pay, Phantom Cash Card. **Updated**: Kraken (Krak US Visa card launched 2026-08-18; UK/EEA Mastercard), OKX FX 0%, Nummus annual fee, Gemini and Bitget reward assets, region asterisks removed for Tuyo, Fuse and Jupiter (US availability stated on their pages).
 
 **Key Corrections (February 2026):**
 - **Custody recheck (June 2026):** KAST changed from **🔐 Self** to **📋 CeFi** because official KAST terms say transferred virtual assets are sold to KAST and managed through a custodian for KAST. CryptoSpend/Wayex and Spendly also moved from **🔐 Self** to **📋 CeFi** because official materials describe custodial/prepaid top-up models rather than user-controlled keys through card spend.
@@ -150,11 +160,11 @@
 
 ## Quick Summary
 
-> **TL;DR:** Use **EtherFi Cash** (92) as the strongest overall self-custodial option, **Plasma One** (81) or **MetaMask Card** (77, US/UK signups paused) for self-custody spend paths. Use **Gemini Card** (76), **Crypto.com Visa** (71), or **Kast** (71) only if you accept custodial tradeoffs for rewards or familiarity.
+> **TL;DR:** Use **EtherFi Cash** (92) as the strongest overall self-custodial option, **Plasma One** (81) or **MetaMask Card** (77, US/UK signups paused) for self-custody spend paths. Use **Gemini Card** (79), **Crypto.com Visa** (71), or **Kast** (71) only if you accept custodial tradeoffs for rewards or familiarity.
 >
 > **🔐 Self-Custody Spend-Path Cards:** EtherFi Cash, Tria*, MetaMask Card, Gnosis Pay, ThorWallet*, Payy*, Avici Money, Plasma One, Ethena Pay (beta; collateral can be liquidated), Tuyo, and Solflare (paused). *Official card terms not fully retrievable; see the Oct 2026 verification log in [CRYPTO_CARDS_DETAILS.md](./CRYPTO_CARDS_DETAILS.md#verification-log-october-2026). OKX Card is Exch (OKX Pay holds the balance); 1inch Card is CeFi (prepaid Mastercard, Monavate/Baanx).
 
-**Last Updated:** October 10, 2026 | [Scoring Methodology](./CRYPTO_CARDS_DETAILS.md#scoring-methodology) | [Custody Model Taxonomy](./CRYPTO_CARDS_DETAILS.md#custody-model-taxonomy) | [Provider Groupings](./CRYPTO_CARDS_DETAILS.md#provider-groupings)
+**Last Updated:** October 15, 2026 | [Scoring Methodology](./CRYPTO_CARDS_DETAILS.md#scoring-methodology) | [Custody Model Taxonomy](./CRYPTO_CARDS_DETAILS.md#custody-model-taxonomy) | [Provider Groupings](./CRYPTO_CARDS_DETAILS.md#provider-groupings)
 
 **Related:** See [Software Wallet Comparison](./SOFTWARE_WALLETS.md) and [Hardware Wallet Comparison](./HARDWARE_WALLETS.md) for wallet recommendations.
 
@@ -166,7 +176,7 @@
 
 ### What is the best crypto credit card in 2026?
 
-**EtherFi Cash** (92/100) is the current top card in this table because it combines self-custody, global reach, zero annual fee, and a strong rewards profile. **Plasma One** (81) is the next-best self-custody option; Ready Card is reported shut down and is no longer recommended.
+**EtherFi Cash** (92/100) is the current top card in this table because it combines self-custody, global reach, zero annual fee, and a strong rewards profile. **Plasma One** (81) is the next-best self-custody option; Ready Card is discontinued and no longer recommended; Gnosis Pay is winding down its consumer card.
 
 ### Which crypto cards have a self-custody spend path?
 

diff --git a/articles/best-crypto-card.md b/articles/best-crypto-card.md
@@ -1,8 +1,8 @@
 ---
 title: "Best Crypto Card in 2026"
-description: "Wallet Radar picks for crypto cards: EtherFi Cash (92), Plasma One (81), and MetaMask Card (77) lead the list."
+description: "Wallet Radar picks for crypto cards: EtherFi Cash (92), Ethena Pay (84), Plasma One (81), and MetaMask Card (77) lead the self-custody options."
 category: comparison
-lastUpdated: "2026-10-10"
+lastUpdated: "2026-10-15"
 author: "Wallet Radar"
 tags: ["comparison", "crypto-cards", "spending"]
 ---
@@ -12,6 +12,7 @@ tags: ["comparison", "crypto-cards", "spending"]
 ## Quick Answer
 
 - **Best overall:** **EtherFi Cash (92)**  
+- **Best non-US self-custody spend card:** **Ethena Pay (84)**, AVAX cashback, collateral can be liquidated  
 - **Best self-custody alternative:** **Plasma One (81)**  
 - **Self-custody, US/UK signups paused:** **MetaMask Card (77)**  
 
@@ -24,9 +25,10 @@ Source: `CRYPTO_CARDS.md`
 | Card | Score | Notes |
 |------|-------|------|
 | **EtherFi Cash** | **92** | Non-custodial, strong rewards |
+| **Ethena Pay** | 84 | Non-US, 4-5% in AVAX, Visa |
 | **Plasma One** | 81 | Self-custody spend path, up to 4% in XPL |
-| **Gnosis Pay** | 70 | Self-custody, EU/EEA focus |
-| **MetaMask Card** | 77 | Self-custody option |
+| **MetaMask Card** | 77 | Self-custody option, US/UK signups paused |
+| **Gnosis Pay** | 66 | Consumer card being wound down; press gives 2026-12-20 as the end date |
 | **Coinbase Card** | 64 | US-focused, custodial |
 
 ---
@@ -37,6 +39,9 @@ Source: `CRYPTO_CARDS.md`
 - ✅ You control funds  
 - ✅ Lower exchange risk  
 - ⚠ Availability depends on region
+
+**Cards that stopped in 2026:** Ready (issuer Kulipa wound down, late July), Cypher (acquired by Nium; service ended 2026-09-06), Solflare (paused since 2026-07-28)  
+Check the status column before applying.
 
 **Custodial cards** (Coinbase, Gemini)  
 - ✅ Simple onboarding  
